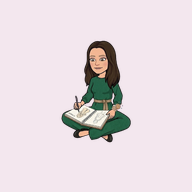
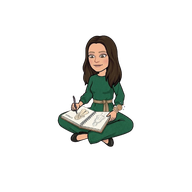
Add files via upload

Changed region(s): [[0.2812, 0.1562, 0.7188, 0.7812]]

diff --git a/index.html b/index.html
@@ -128,7 +128,7 @@
 <body>
 <div class="app">
   <nav class="nav">
-    <div class="brand"><div class="dot serif">L</div><div><h1 class="serif">Atelier Herrgott</h1><small>Lenuf designs</small></div></div>
+    <div class="brand"><img src="icon-192.png" alt="Lenuf designs" style="width:46px;height:46px;object-fit:contain;flex-shrink:0;"><div><h1 class="serif">Atelier Herrgott</h1><small>Lenuf designs</small></div></div>
     <div class="navsec">Le processus</div>
     <button class="navbtn" data-v="inspirations"><span class="step">1</span> Inspirations</button>
     <button class="navbtn" data-v="assistant"><span class="step">2</span> Assistant IA</button>

diff --git a/sw.js b/sw.js
@@ -1,4 +1,4 @@
-const CACHE="atelier-couture-v20";
+const CACHE="atelier-couture-v21";
 const ASSETS=["./","./index.html","./app.libimg.js","./app.fs.bundle.js","./app.fsinfo.js","./app.fsx2.js","./app.v6.js","./app.profiles.js","./app.composer.js","./app.elements.js","./app.patterns2.js","./app.motifs.js","./app.freesewing.js","./app.illus.js","./manifest.webmanifest","./icon-192.png","./icon-512.png"];
 self.addEventListener("install",e=>{e.waitUntil(caches.open(CACHE).then(c=>c.addAll(ASSETS)).then(()=>self.skipWaiting()));});
 self.addEventListener("activate",e=>{e.waitUntil(caches.keys().then(ks=>Promise.all(ks.filter(k=>k!==CACHE).map(k=>caches.delete(k)))).then(()=>self.clients.claim()));});